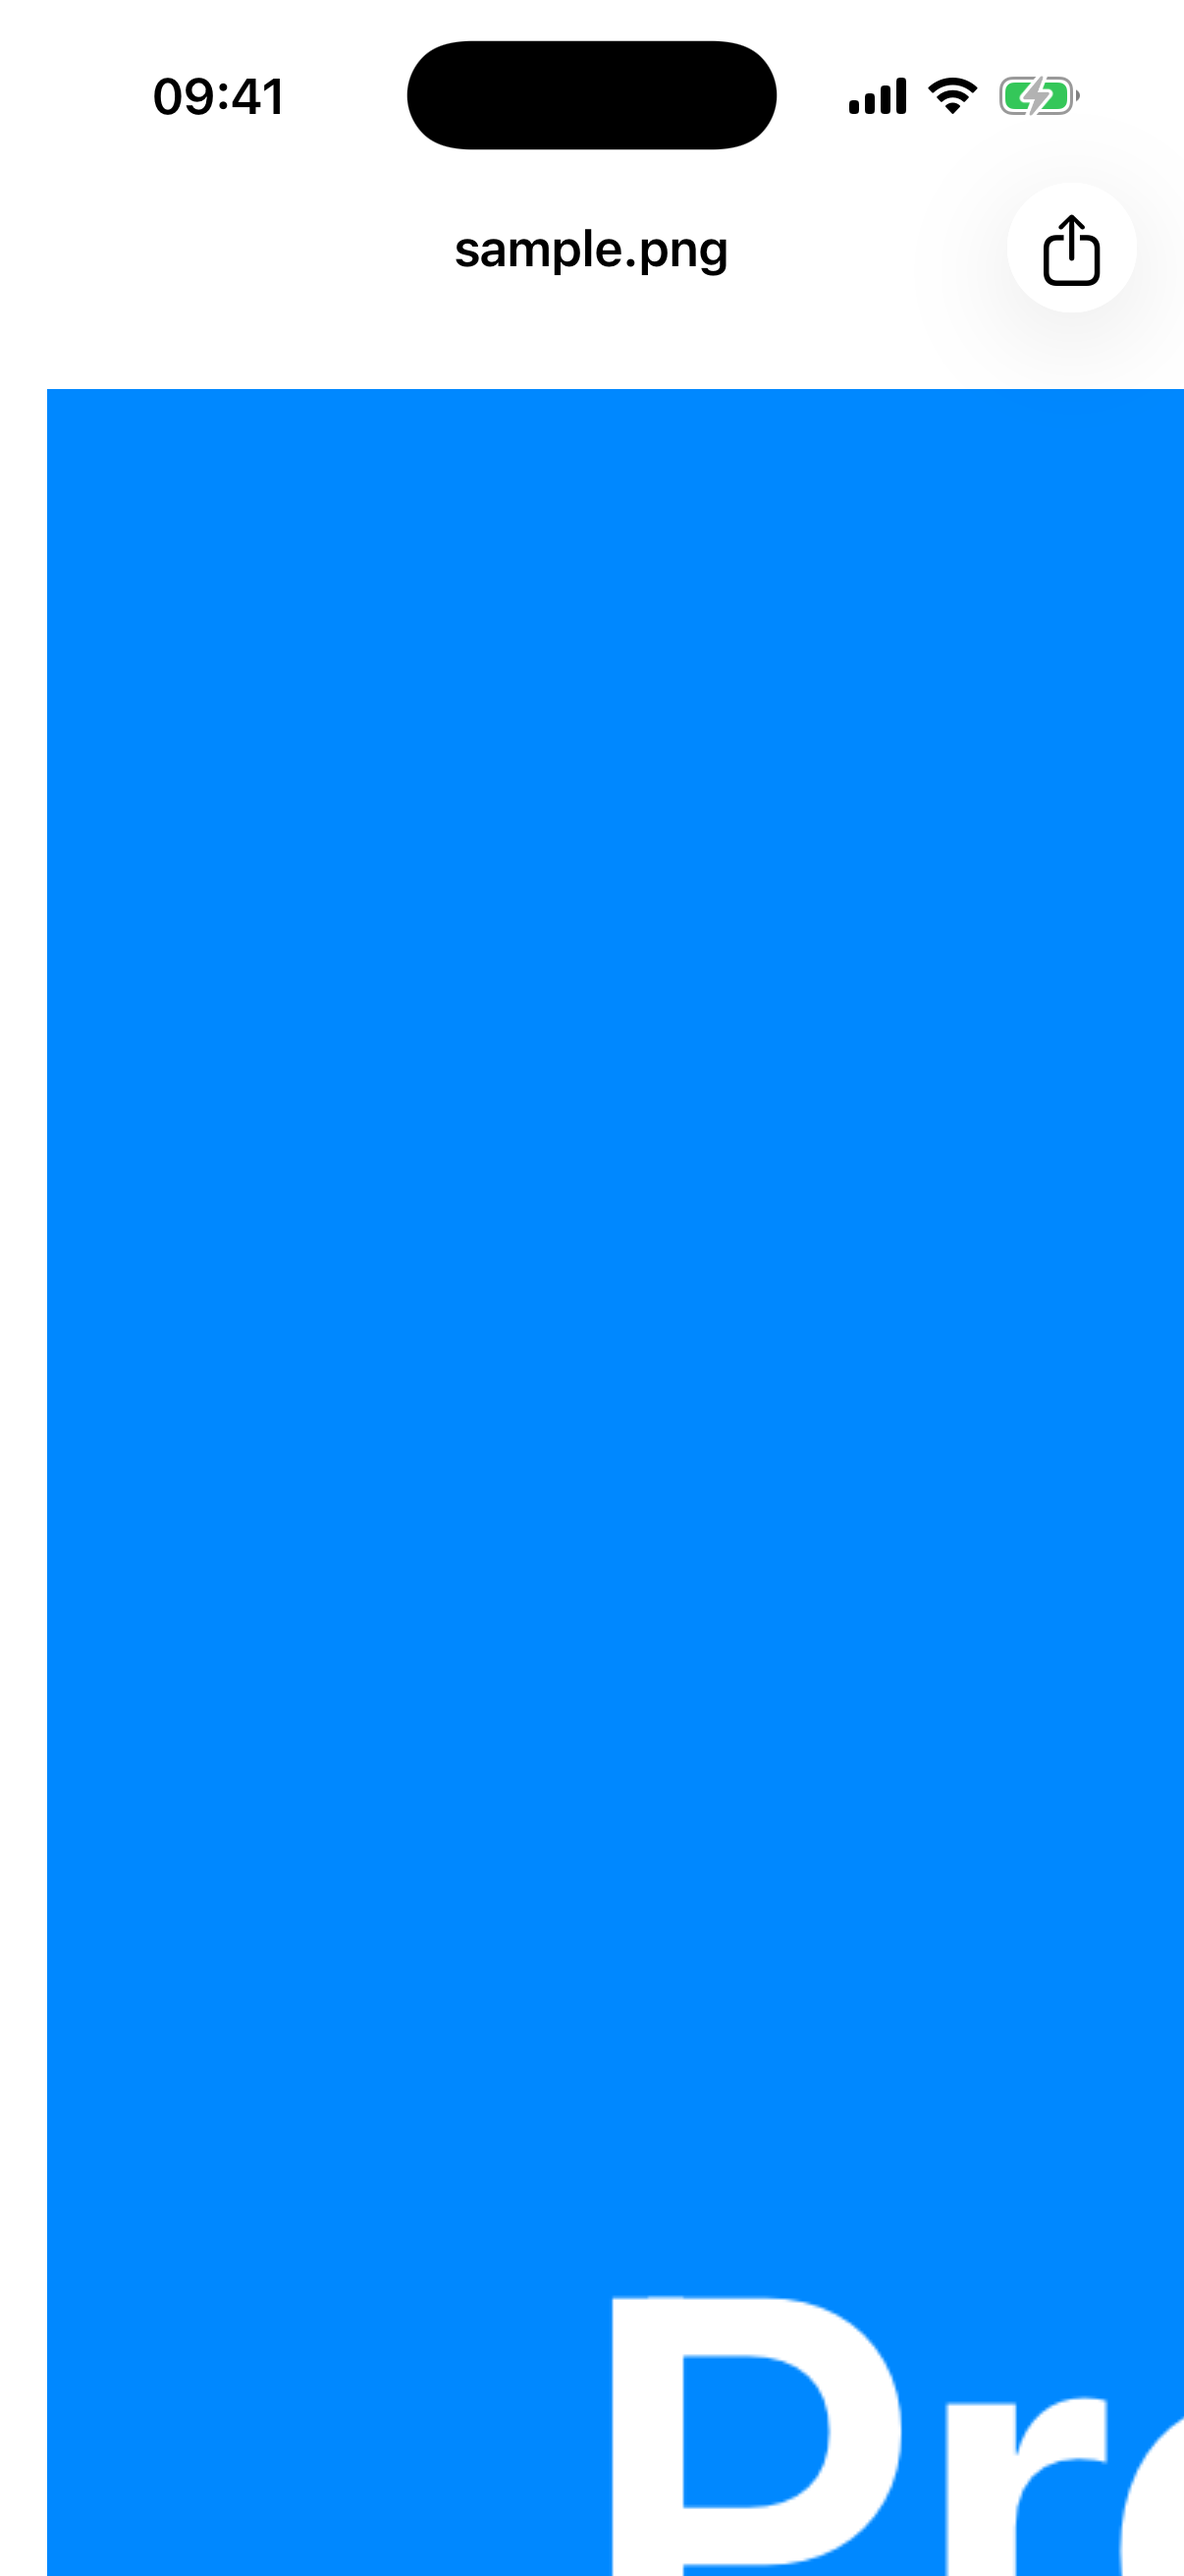
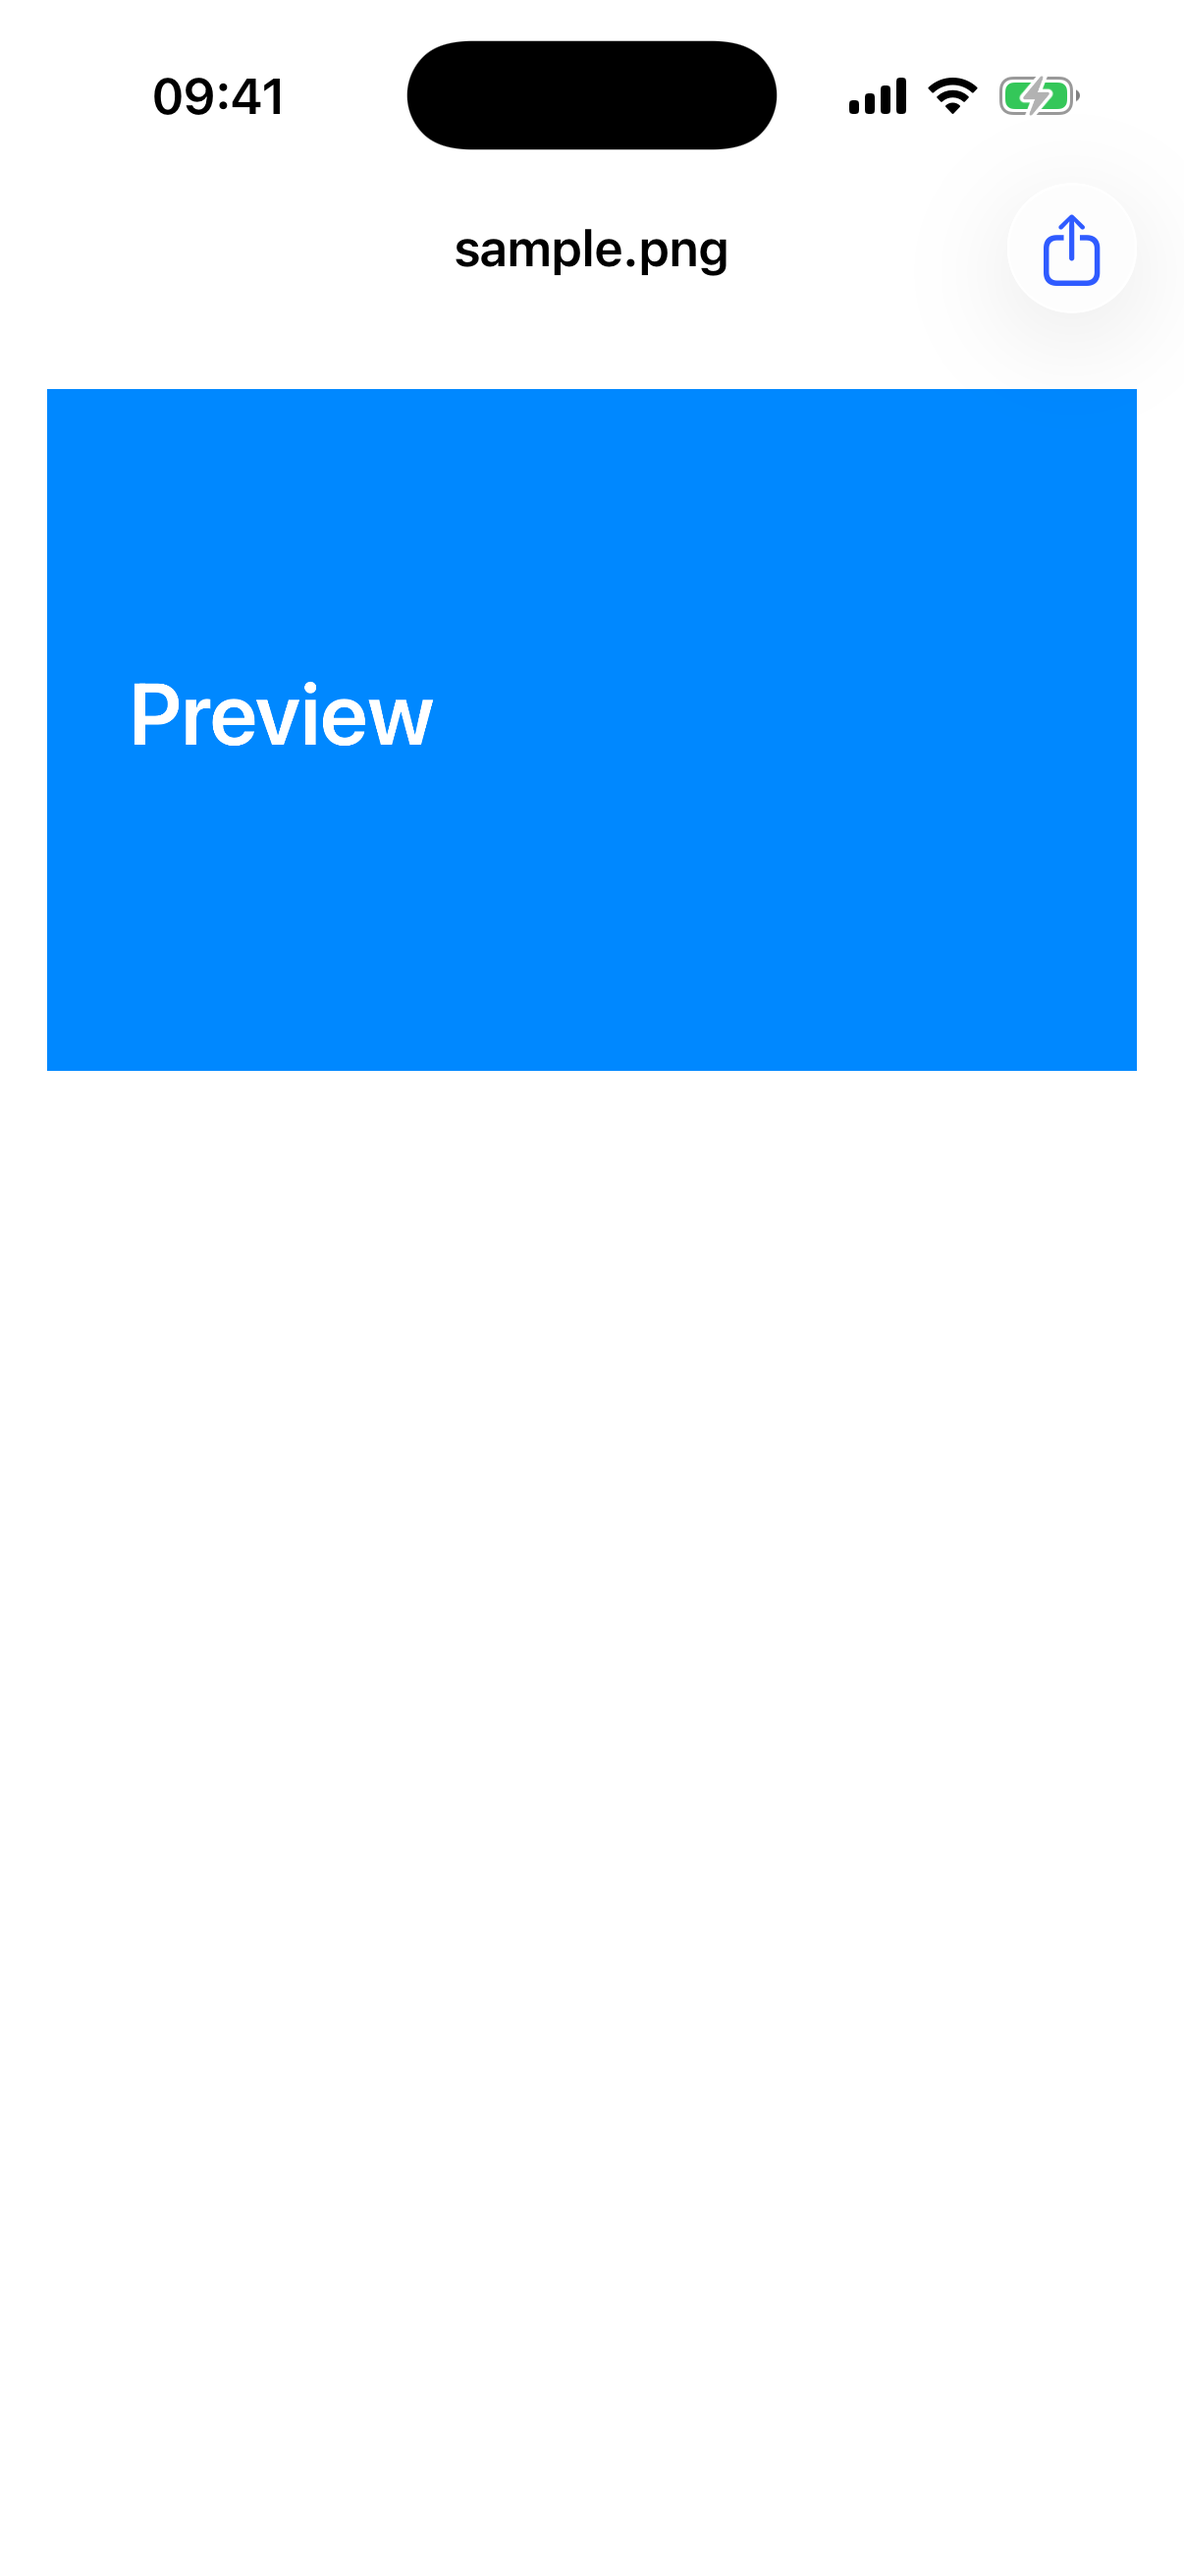
feat: grant HTML network per preview and cover preview fixtures

diff --git a/examples/probe-app/PhoneDSHProbe/PreviewSurface.swift b/examples/probe-app/PhoneDSHProbe/PreviewSurface.swift
@@ -228,6 +228,7 @@ struct PreviewSurface: View {
     @State private var model: PreviewModel
     @State private var webReloadID = UUID()
     @State private var showShare = false
+    @State private var networkGranted = false
 
     init(target: PreviewTarget, presentation: PreviewPresentation = .init(), isModal: Bool = true) {
         self.target = target
@@ -280,6 +281,10 @@ struct PreviewSurface: View {
         .background(NativePagePalette.page)
         .navigationTitle(URL(fileURLWithPath: model.path).lastPathComponent)
         .navigationBarTitleDisplayMode(.inline)
+        .onChange(of: networkGranted) { _, _ in
+            // A CSP is injected with the response; reload to apply the grant.
+            webReloadID = UUID()
+        }
         .sheet(isPresented: $showShare) {
             if let url = model.fileURL {
                 ActivityView(items: [url])
@@ -295,6 +300,13 @@ struct PreviewSurface: View {
             ToolbarItem(placement: .primaryAction) {
                 HStack(spacing: 16) {
                     if model.kind == .html {
+                        Menu {
+                            Toggle("允许本次加载外部图片/字体/媒体", isOn: $networkGranted)
+                        } label: {
+                            Image(systemName: networkGranted ? "network.badge.shield.half.filled" : "network")
+                                .foregroundStyle(NativePagePalette.accent)
+                        }
+                        .accessibilityLabel("网页网络权限")
                         Button {
                             webReloadID = UUID()
                         } label: {
@@ -381,19 +393,19 @@ struct PreviewSurface: View {
         #if DEBUG
         map["preview-session"] = ChatModel.shared.workspaceDirectoryURL
         #endif
-        return PDSHPageResolver(libraryRoot: library, workspaceRoot: { map[$0] })
+        return PDSHPageResolver(libraryRoot: library,
+                                workspaceRoot: { map[$0] },
+                                networkAllowed: { _ in networkGranted })
     }
 
     @ViewBuilder
     private var imageBody: some View {
         if let url = model.fileURL, let image = UIImage(contentsOfFile: url.path) {
-            ScrollView([.vertical, .horizontal]) {
-                Image(uiImage: image)
-                    .resizable()
-                    .scaledToFit()
-                    .frame(maxWidth: .infinity)
-                    .padding(16)
-            }
+            Image(uiImage: image)
+                .resizable()
+                .scaledToFit()
+                .frame(maxWidth: .infinity, maxHeight: .infinity, alignment: .top)
+                .padding(16)
         } else {
             ContentUnavailableView("无法显示图片", systemImage: "photo",
                                    description: Text("图片格式不受支持，或文件仍在写入。"))

diff --git a/Tests/PhoneDSHEngineTests/PageSchemeHandlerTests.swift b/Tests/PhoneDSHEngineTests/PageSchemeHandlerTests.swift
@@ -252,6 +252,31 @@ final class PageSchemeHandlerTests: XCTestCase {
         XCTAssertEqual(task.chunks.reduce(Data(), +), bytes)
     }
 
+    /// A per-preview user grant widens only resource/egress directives; it
+    /// must never add https: to script-src.
+    func testNetworkGrantWidensResourcesButNotScripts() throws {
+        let ws = try workspace()
+        try write("<html><body>hi</body></html>", to: ws.appendingPathComponent("page.html"))
+        let denied = PDSHPageResolver(libraryRoot: try library(), workspaceRoot: { _ in ws })
+        let granted = PDSHPageResolver(libraryRoot: try library(),
+                                       workspaceRoot: { _ in ws },
+                                       networkAllowed: { _ in true })
+
+        let deniedTask = FakeTask(url: URL(string: "pdsh-page://S/page.html")!)
+        run(makeHandler(denied), deniedTask)
+        let deniedCSP = deniedTask.response?.value(forHTTPHeaderField: "Content-Security-Policy") ?? ""
+        XCTAssertTrue(deniedCSP.contains("connect-src 'none'"))
+        XCTAssertFalse(deniedCSP.contains("https:"))
+
+        let grantedTask = FakeTask(url: URL(string: "pdsh-page://S/page.html")!)
+        run(makeHandler(granted), grantedTask)
+        let grantedCSP = grantedTask.response?.value(forHTTPHeaderField: "Content-Security-Policy") ?? ""
+        XCTAssertTrue(grantedCSP.contains("connect-src pdsh-page: https:"))
+        XCTAssertTrue(grantedCSP.contains("img-src data: blob: pdsh-page: https:"))
+        XCTAssertTrue(grantedCSP.contains("script-src 'unsafe-inline' blob: pdsh-page:"))
+        XCTAssertFalse(grantedCSP.contains("script-src 'unsafe-inline' blob: pdsh-page: https:"))
+    }
+
     func testServesARangeWith206() throws {
         let ws = try workspace()
         let bytes = Data(repeating: 0x42, count: 4096)

diff --git a/Sources/PhoneDSHEngine/PageSchemeHandler.swift b/Sources/PhoneDSHEngine/PageSchemeHandler.swift
@@ -53,11 +53,16 @@ public struct PDSHPageResolver: Sendable {
     public let libraryRoot: URL
     /// Session id → the session's materialized workspace directory.
     public let workspaceRoot: @Sendable (String) -> URL?
+    /// A per-preview user grant for external images/fonts/media/connect.
+    /// Scripts from `https:` remain forbidden in every tier.
+    public let networkAllowed: @Sendable (URL) -> Bool
 
     public init(libraryRoot: URL,
-                workspaceRoot: @escaping @Sendable (String) -> URL?) {
+                workspaceRoot: @escaping @Sendable (String) -> URL?,
+                networkAllowed: @escaping @Sendable (URL) -> Bool = { _ in false }) {
         self.libraryRoot = libraryRoot.standardizedFileURL.resolvingSymlinksInPath()
         self.workspaceRoot = workspaceRoot
+        self.networkAllowed = networkAllowed
     }
 
     /// Resolves `pdsh-page://<host>/<path>` to a validated file.
@@ -452,7 +457,8 @@ public final class PDSHPageSchemeHandler: NSObject, WKURLSchemeHandler {
             }
             headers["Content-Length"] = String(bodyLength)
             if file.isHTML {
-                let tier = PDSHPageScheme.declaredTier(inHTML: firstChunk.prefix(4096))
+                var tier = PDSHPageScheme.declaredTier(inHTML: firstChunk.prefix(4096))
+                if resolver.networkAllowed(url) { tier = .online }
                 headers["Content-Security-Policy"] =
                     PDSHPageScheme.contentSecurityPolicy(for: tier)
             }

diff --git a/docs/receipts/preview-research/05-IMPLEMENTATION.md b/docs/receipts/preview-research/05-IMPLEMENTATION.md
@@ -11,7 +11,8 @@
 - 文本/Markdown/代码：`UITextView` 分页读取，512 KiB 一页 + `加载更多`；UTF-8 跨页不切断。
 - Markdown 本地图片改为共享 resolver，走 `materialized/workspace`。
 - 类型路由：文本/HTML/图片/PDF/Office/视频/音频；未知类型 metadata + 分享；无扩展名文件做 UTF-8 sniff。
-- HTML：JS 默认开；`pdsh-page://` 页面；toolbar reload；明确外部网络默认关闭。
+- HTML：JS 默认开；`pdsh-page://` 页面；toolbar reload；外部网络默认关闭，toolbar 网络菜单可按本次预览授权（只放宽图片/字体/媒体/connect，**script-src 永不加 https:**）。
+- `PDSHPageResolver.networkAllowed` + `Content-Security-Policy` 测试：授权前后 CSP 对照，19 个 PageSchemeHandler 测试通过。
 - 深色：`NativePagePalette.page` 跟随 App 外观，不再固定白底；Files 也改用 palette。
 - 删除 `FilePreviewPage` / `EmbeddedQuickLook` 死路径和旧 Sheet 预览。
 - 新增 DEBUG 路由与截图：
@@ -26,8 +27,8 @@
 
 - HTML 两档 CSP、meta 白名单、弹窗/下载策略、网络授权横幅（P1）。
 - localhost 独立 Web 面（按评审 defer）。
-- PDF/Office/AVKit 真机/模拟器 fixture 与截图。
-- 深色截图基线与 Dynamic Type。
+- PDF/Image fixture 与截图已加；Office/AVKit 仍需 fixture。
+- 深色 Markdown 截图已加；其他类型深色基线与 Dynamic Type 待补。
 - 文本 `#L` 定位、行号、滚动恢复（P1）。
 - Android 侧 router/read/WebView（后续）。
 - 预览单元/UI 测试；当前只有 DEBUG 截图路由。
